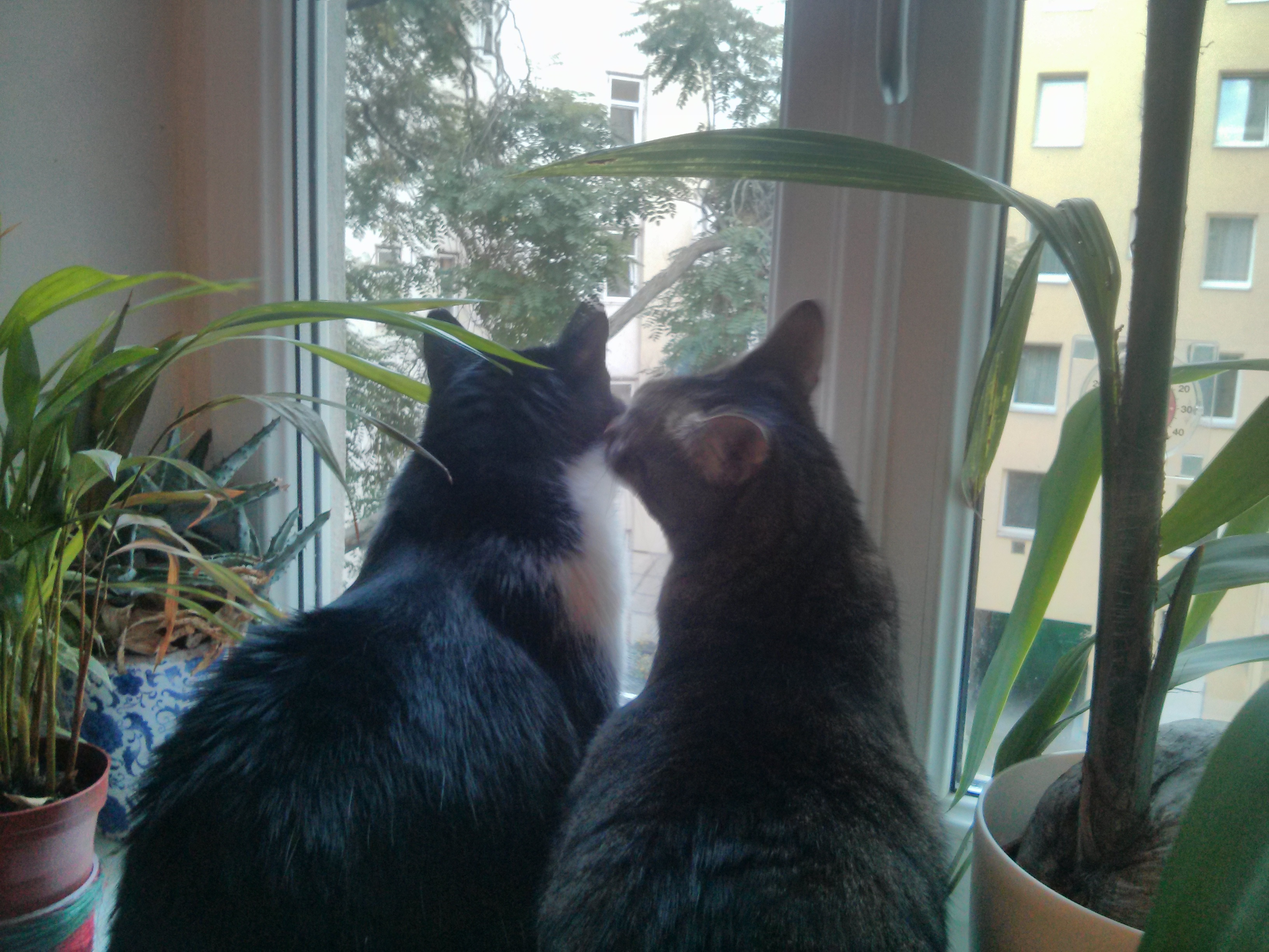
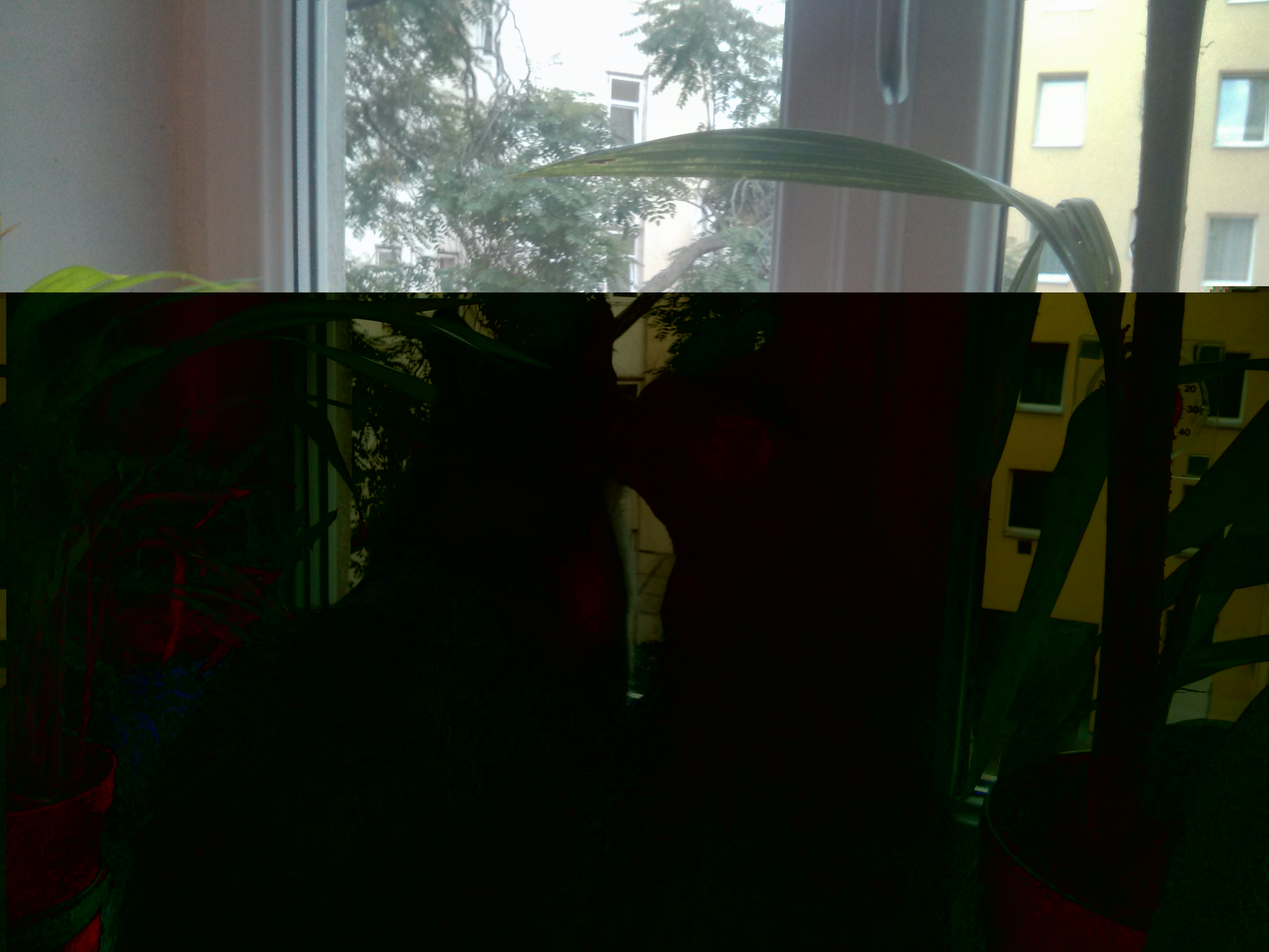
Update concerts

diff --git a/blog/book-review-a-mind-for-numbers-by-barbara-oakley/index.html b/blog/book-review-a-mind-for-numbers-by-barbara-oakley/index.html
@@ -47,7 +47,7 @@ response, the client will take the results and render the HTML to the browser. W
 that&rsquo;s one example of why it&rsquo;s important to chunk knowledge.</p>
 <figure>
   <a href="chunking.png" class="imglink">
-    <img src="https://scottmuc.com/blog/book-review-a-mind-for-numbers-by-barbara-oakley/chunking_hu_e7c70e38712afafb.png" width="800" />
+    <img src="https://scottmuc.com/blog/book-review-a-mind-for-numbers-by-barbara-oakley/chunking_hu_f098a7c7e3b4d209.png" width="800" />
   </a></figure>
 
 <p>It wasn&rsquo;t mentioned in the book, but a lot of what I read on chunking looked like reaching the <strong>competent</strong> level on the
@@ -118,7 +118,7 @@ specific time period. It runs outside of the web-browser so it&rsquo;ll block ap
 even killing the process or rebooting your machine won&rsquo;t get the hostname working again. I will use this every time I&rsquo;m doing a pomodoro.</p>
 <figure>
 	  <a href="self-control.png" class="imglink">
-	    <img src="https://scottmuc.com/blog/book-review-a-mind-for-numbers-by-barbara-oakley/self-control_hu_3cbb794b04a0fdac.png" width="400" />
+	    <img src="https://scottmuc.com/blog/book-review-a-mind-for-numbers-by-barbara-oakley/self-control_hu_a6fcfd880efa8b45.png" width="400" />
 	  </a></figure>
 
 </li>

diff --git a/tags/music/index.html b/tags/music/index.html
@@ -106,13 +106,17 @@ that my life had space for these shows.</p>
 <li>18.08.2026 Ron Sexsmith at <a href="https://frannz.eu">Frannz Club</a></li>
 <li>26.08.2026 Wet Leg and Lava la Rue somewhere in Berlin</li>
 <li>28.08.2026 The Kilimanjaro Darkjazz Ensemble somewhere in Leipzig</li>
+<li>20.09.2026 Metric / Broken Social Scene / Starts at <a href="https://columbiahalle.berlin/">Columbiahalle</a></li>
+<li>21.09.2026 Sigur Ros at <a href="https://www.uber-eats-music-hall.de">Uber Eats Music Hall</a></li>
+<li>25.09.2026 Evanesence / Poppy at <a href="https://www.velodrom.de/en/">Velodrome</a></li>
 </ul>
 <h2 id="future-have-tickets">Future (have tickets)</h2>
 <ul>
-<li>20.09.2026 Metric / Broken Social Scene / Starts at <a href="https://columbiahalle.berlin/">Columbiahalle</a></li>
 <li>29.09.2026 The Dear Hunter at <a href="https://frannz.eu">Frannz Club</a></li>
+<li>04.10.2026 Father of Peace</li>
 <li>06.10.2026 Haken <a href="https://frannz.eu">Frannz Club</a></li>
 <li>05.11.2026 Jethro Tull at <a href="https://www.tempodrom.de/">Tempdrom</a></li>
+<li>24.11.2026 Moon Walker</li>
 <li>17.12.2026 Rush at Rogers Arena in Vancouver</li>
 <li>21.02.2027 Rush at Uber Arena in Berlin</li>
 <li>24.03.2027 Rush at some venue in Manchester</li>

diff --git a/concerts/index.html b/concerts/index.html
@@ -46,13 +46,17 @@
 <li>18.08.2026 Ron Sexsmith at <a href="https://frannz.eu">Frannz Club</a></li>
 <li>26.08.2026 Wet Leg and Lava la Rue somewhere in Berlin</li>
 <li>28.08.2026 The Kilimanjaro Darkjazz Ensemble somewhere in Leipzig</li>
+<li>20.09.2026 Metric / Broken Social Scene / Starts at <a href="https://columbiahalle.berlin/">Columbiahalle</a></li>
+<li>21.09.2026 Sigur Ros at <a href="https://www.uber-eats-music-hall.de">Uber Eats Music Hall</a></li>
+<li>25.09.2026 Evanesence / Poppy at <a href="https://www.velodrom.de/en/">Velodrome</a></li>
 </ul>
 <h2 id="future-have-tickets">Future (have tickets)</h2>
 <ul>
-<li>20.09.2026 Metric / Broken Social Scene / Starts at <a href="https://columbiahalle.berlin/">Columbiahalle</a></li>
 <li>29.09.2026 The Dear Hunter at <a href="https://frannz.eu">Frannz Club</a></li>
+<li>04.10.2026 Father of Peace</li>
 <li>06.10.2026 Haken <a href="https://frannz.eu">Frannz Club</a></li>
 <li>05.11.2026 Jethro Tull at <a href="https://www.tempodrom.de/">Tempdrom</a></li>
+<li>24.11.2026 Moon Walker</li>
 <li>17.12.2026 Rush at Rogers Arena in Vancouver</li>
 <li>21.02.2027 Rush at Uber Arena in Berlin</li>
 <li>24.03.2027 Rush at some venue in Manchester</li>

diff --git a/blog/growing-an-open-source-project-the-pester-story/index.html b/blog/growing-an-open-source-project-the-pester-story/index.html
@@ -68,7 +68,7 @@ Johan Leino appear on the Web.</p>
 <h3 id="the-year-of-transition-2014">The Year of Transition (2014)</h3>
 <figure>
   <a href="https://twitter.com/LogicalDiagram/status/461638955725631488" class="imglink">
-    <img src="https://scottmuc.com/blog/growing-an-open-source-project-the-pester-story/pester-mention_hu_c75368e0e9dfee84.png" width="300" />
+    <img src="https://scottmuc.com/blog/growing-an-open-source-project-the-pester-story/pester-mention_hu_95f492691c3ea28e.png" width="300" />
   </a></figure>
 
 <p>2014 marked a large surge in Pester interest. During the PowerShell Summit it was rumoured that the creator of

diff --git a/index.html b/index.html
@@ -1,7 +1,7 @@
 <!DOCTYPE html>
 <html lang="en">
 <head>
-	<meta name="generator" content="Hugo 0.165.0">
+	<meta name="generator" content="Hugo 0.166.0">
 	<meta http-equiv="Content-Type" content="text/html;charset=UTF-8">
 	<link rel="shortcut icon" type="image/x-icon" href="/favicon.ico">
 	<title>More Muc Than You Can Handle</title>
